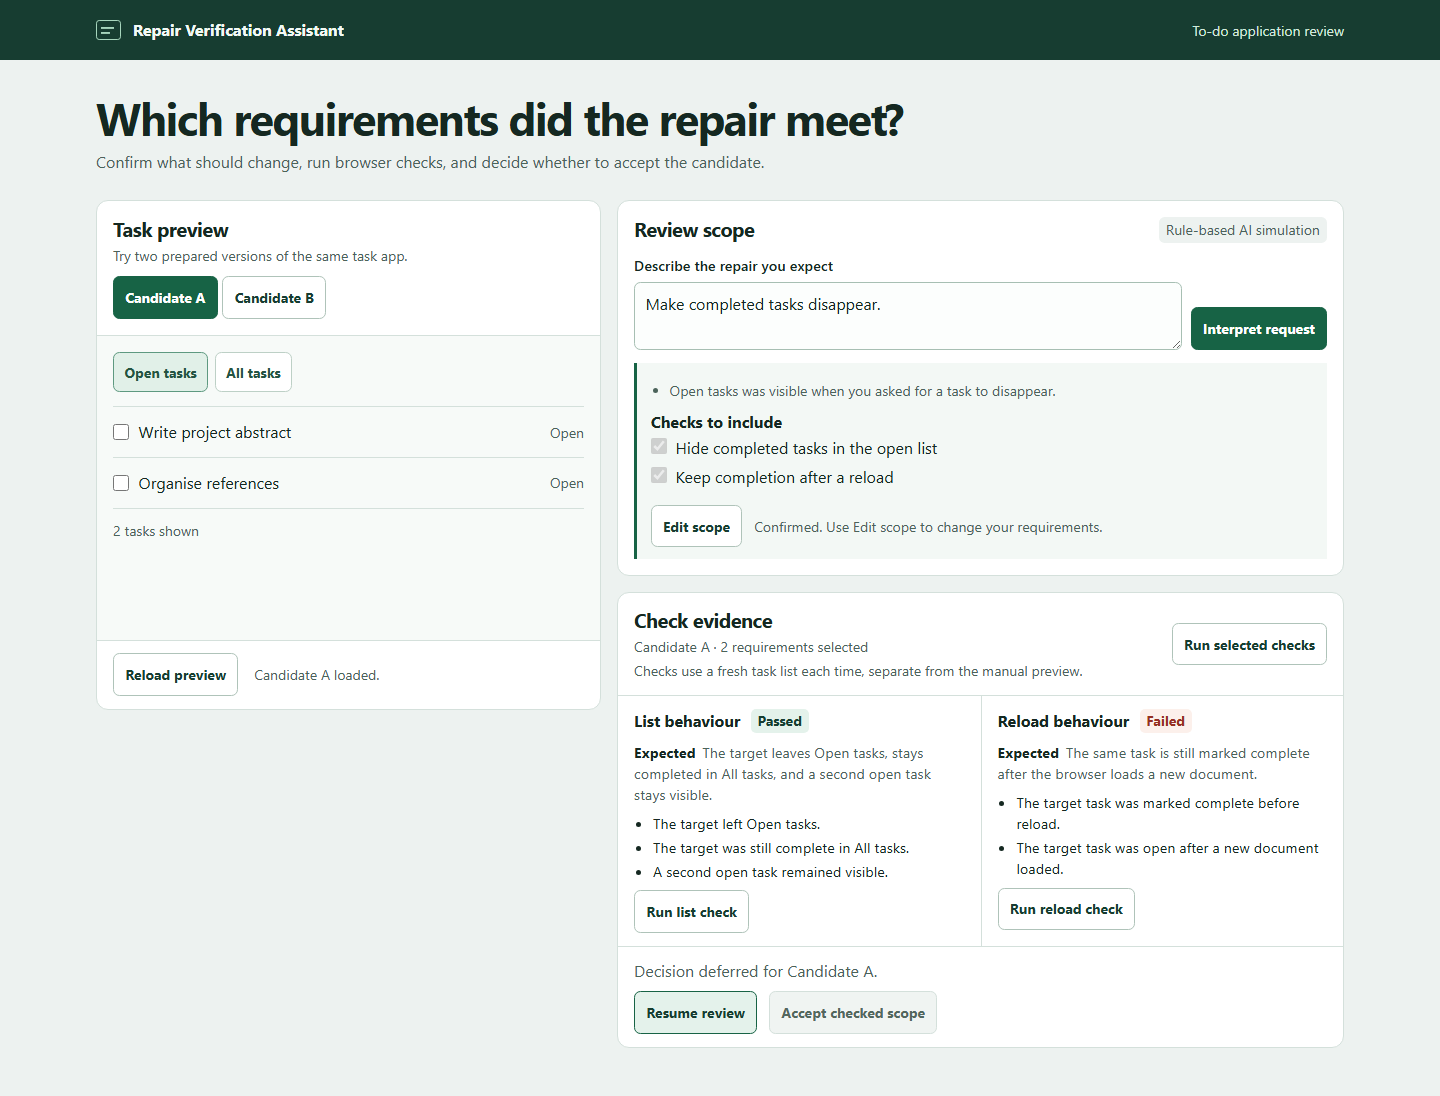
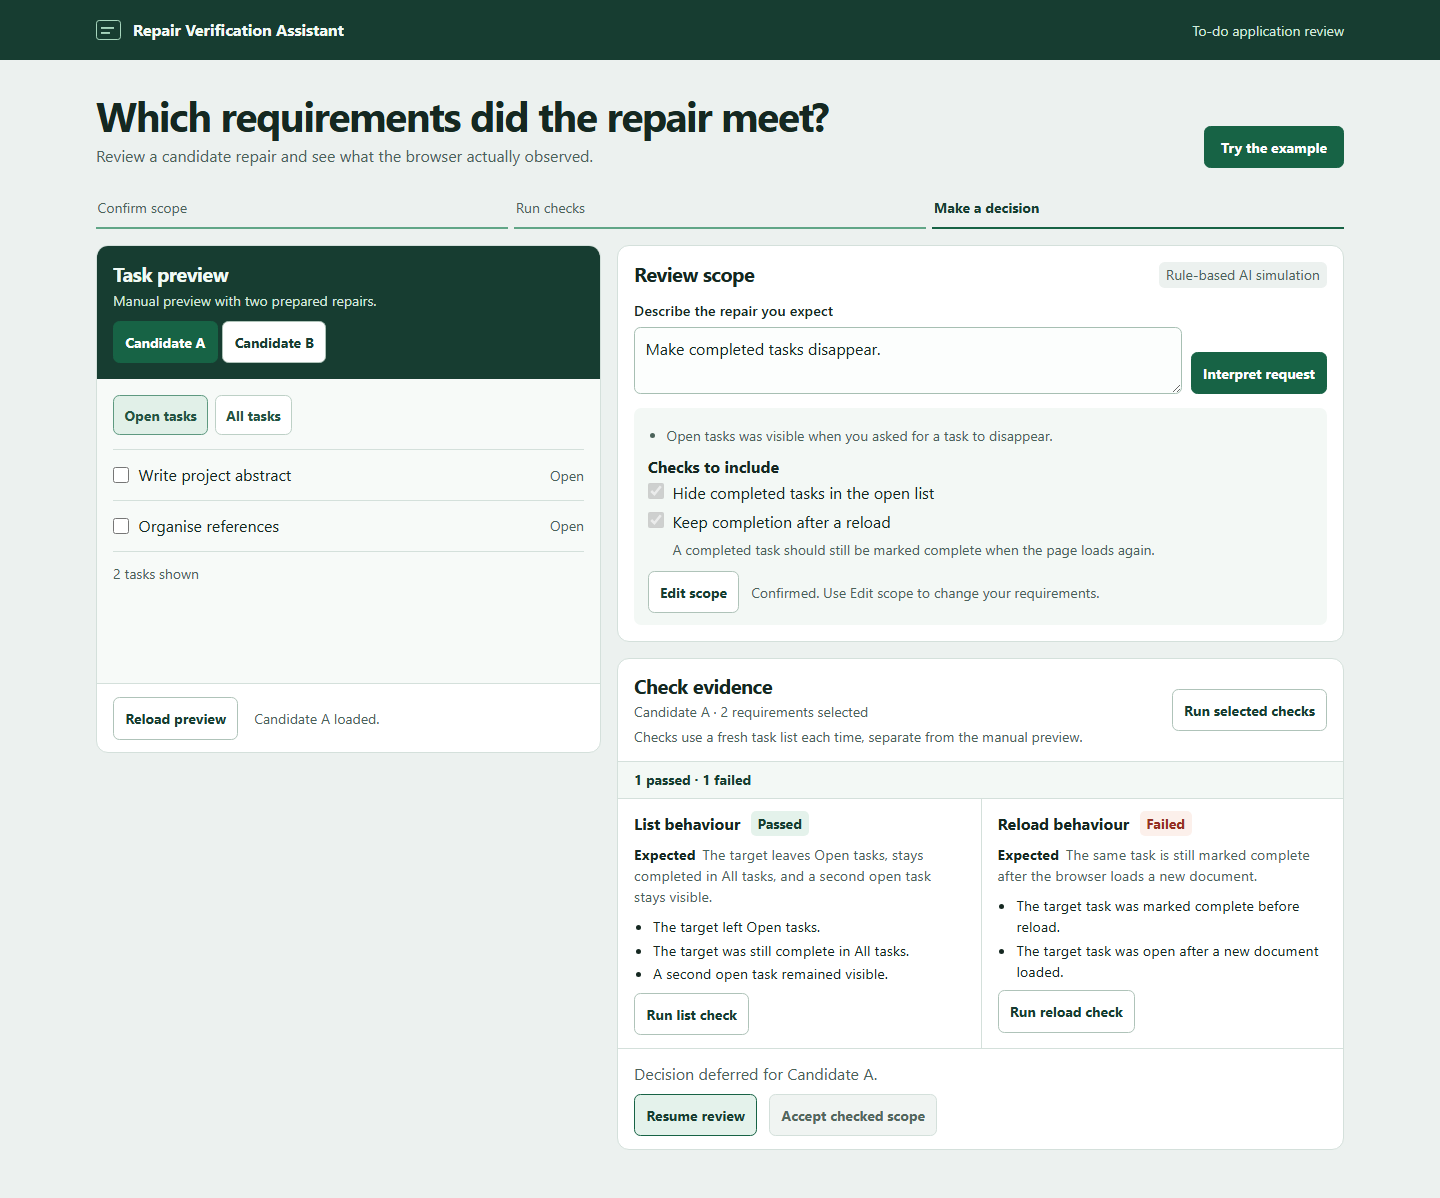
Stage 02: Guide reviewers and surface check results

diff --git a/web/workbench.css b/web/workbench.css
@@ -1,6 +1,6 @@
 :root {
   color-scheme: light;
-  --canvas: #edf2f0;
+  --canvas: #ecf1ef;
   --surface: #ffffff;
   --ink: #152821;
   --muted: #4b635a;
@@ -44,11 +44,36 @@ h1, h2, h3, p { margin: 0; }
 }
 .header-note { font-size: .875rem; color: #d2e8db; }
 .shell { padding-block: 2rem 3rem; }
-.intro { display: grid; gap: .4rem; margin-block-end: 1.65rem; }
-h1 { font-size: clamp(1.95rem, 3.15vw, 3rem); line-height: 1.13; font-weight: 660; letter-spacing: -.037em; }
+.intro {
+  display: flex;
+  flex-wrap: wrap;
+  align-items: flex-end;
+  justify-content: space-between;
+  gap: 1rem 2rem;
+  margin-block-end: 1.35rem;
+}
+.intro p { margin-block-start: .4rem; max-width: 62ch; }
+.intro button { padding-inline: 1rem; }
+h1 { font-size: 2.55rem; line-height: 1.13; font-weight: 660; letter-spacing: -.033em; text-wrap: balance; }
 h2 { font-size: 1.22rem; line-height: 1.3; letter-spacing: -.012em; }
 h3 { font-size: 1rem; }
 .intro p, .preview-header p, #evidence-context { color: var(--muted); }
+.review-progress {
+  display: grid;
+  grid-template-columns: repeat(3, minmax(0, 1fr));
+  gap: .4rem;
+  list-style: none;
+  margin: 0 0 1rem;
+  padding: 0;
+}
+.review-progress li {
+  padding: .44rem .1rem .55rem;
+  border-block-end: 2px solid #c1d0c9;
+  color: var(--muted);
+  font-size: .875rem;
+}
+.review-progress li[aria-current="step"] { color: var(--pine); border-color: var(--accent); font-weight: 700; }
+.review-progress .step-done { border-color: #61a687; }
 .workbench {
   display: grid;
   grid-template-columns: minmax(20rem, .82fr) minmax(0, 1.18fr);
@@ -69,7 +94,8 @@ h3 { font-size: 1rem; }
   flex-wrap: wrap;
   gap: .65rem 1rem;
 }
-.preview-header { padding: 1rem; border-block-end: 1px solid var(--line); }
+.preview-header { padding: 1rem; color: #f1faf5; background: var(--pine); }
+.preview-header p { color: #d4e7dc; }
 .preview-header p, #evidence-context, #preview-message, #scope-message, .check-note { font-size: .875rem; }
 .preview-header p, #evidence-context { margin-top: .15rem; }
 .candidate-control { display: flex; flex-wrap: wrap; gap: .3rem; }
@@ -131,7 +157,7 @@ textarea {
 .suggestion {
   margin-block-start: .85rem;
   padding: .75rem .85rem;
-  border-inline-start: 3px solid var(--accent);
+  border-radius: .45rem;
   background: #f3f8f5;
 }
 #question { font-weight: 640; }
@@ -140,12 +166,21 @@ textarea {
 fieldset { min-width: 0; border: 0; margin: .55rem 0 .7rem; padding: 0; }
 legend { padding: 0; font-weight: 650; margin-block-end: .15rem; }
 fieldset label { display: flex; gap: .55rem; align-items: baseline; width: fit-content; min-height: 1.8rem; }
+#reload-help { margin-inline-start: 1.55rem; color: var(--muted); font-size: .875rem; }
 input[type="checkbox"] { flex: 0 0 auto; margin: 0; width: 1rem; height: 1rem; accent-color: var(--accent); }
 .scope-actions, .decision-actions { display: flex; align-items: center; gap: .5rem .75rem; flex-wrap: wrap; }
 #scope-message { color: var(--muted); }
 
 .evidence-heading { padding: .9rem 1rem; }
 .check-note { color: var(--muted); margin-block-start: .2rem; }
+.check-summary {
+  padding: .46rem 1rem;
+  border-block-start: 1px solid var(--line);
+  background: #f3f8f5;
+  color: var(--pine);
+  font-size: .875rem;
+  font-weight: 650;
+}
 .check-list { display: grid; grid-template-columns: repeat(2, minmax(0, 1fr)); border-block: 1px solid var(--line); }
 [data-check] { min-width: 0; display: grid; align-content: start; align-items: start; gap: .55rem; padding: .8rem 1rem; }
 [data-check] + [data-check] { border-inline-start: 1px solid var(--line); }
@@ -169,6 +204,7 @@ input[type="checkbox"] { flex: 0 0 auto; margin: 0; width: 1rem; height: 1rem; a
 }
 @media (max-width: 33rem) {
   .shell { padding-block-start: 1.4rem; }
+  h1 { font-size: 1.9rem; }
   .header-note { display: none; }
   .check-list { grid-template-columns: minmax(0, 1fr); }
   [data-check] + [data-check] { border-inline-start: 0; border-block-start: 1px solid var(--line); }

diff --git a/web/index.html b/web/index.html
@@ -17,16 +17,24 @@
   </header>
   <main class="shell">
     <div class="intro">
-      <h1>Which requirements did the repair meet?</h1>
-      <p>Confirm what should change, run browser checks, and decide whether to accept the candidate.</p>
+      <div>
+        <h1>Which requirements did the repair meet?</h1>
+        <p>Review a candidate repair and see what the browser actually observed.</p>
+      </div>
+      <button type="button" id="try-example" class="button-accent">Try the example</button>
     </div>
+    <ol class="review-progress" aria-label="Review progress">
+      <li data-review-step="scope" aria-current="step">Confirm scope</li>
+      <li data-review-step="checks">Run checks</li>
+      <li data-review-step="decision">Make a decision</li>
+    </ol>
 
     <div class="workbench">
       <section class="preview-panel" aria-labelledby="preview-title">
         <div class="preview-header">
           <div>
             <h2 id="preview-title">Task preview</h2>
-            <p>Try two prepared versions of the same task app.</p>
+            <p>Manual preview with two prepared repairs.</p>
           </div>
           <div class="candidate-control" role="group" aria-label="Repair candidate">
             <button type="button" data-candidate="A" aria-pressed="true">Candidate A</button>
@@ -59,7 +67,8 @@
             <fieldset id="scope-options">
               <legend>Checks to include</legend>
               <label><input type="checkbox" value="filter"> Hide completed tasks in the open list</label>
-              <label><input type="checkbox" value="reload"> Keep completion after a reload</label>
+              <label><input type="checkbox" value="reload" aria-describedby="reload-help"> Keep completion after a reload</label>
+              <p id="reload-help">A completed task should still be marked complete when the page loads again.</p>
             </fieldset>
             <div class="scope-actions">
               <button type="button" id="confirm-scope" class="button-accent">Confirm scope</button>
@@ -78,6 +87,7 @@
             </div>
             <button type="button" id="run-selected" disabled>Run selected checks</button>
           </header>
+          <p id="check-summary" class="check-summary" role="status" hidden></p>
           <div class="check-list">
             <article data-check="filter" aria-labelledby="filter-heading">
               <div class="check-heading">

diff --git a/README.md b/README.md
@@ -1,6 +1,6 @@
 # Repair Verification Assistant
 
-Prose word count **457**. Headings and link text are included. Code blocks and setup commands are excluded.
+Prose word count **499**. Headings and link text are included. Code blocks and setup commands are excluded.
 
 A review workbench for a beginner with a candidate to-do app repair. Confirm the requirements, inspect browser evidence and decide what to accept.
 
@@ -18,7 +18,7 @@ Use Node.js 20 or later and a current browser. Run this command from the project
 node serve.mjs
 ```
 
-Select **Interpret request**, include **Keep completion after a reload**, and confirm the scope. On Candidate A, run the list check and then the reload check. Review the evidence and defer. Switch to Candidate B, run both checks and accept the checked scope. The manual preview supports the same actions.
+Select **Try the example** to load Candidate A and fill in both requirements. Confirm the scope and run both checks. Review the evidence and defer. Switch to Candidate B, run both checks and accept the checked scope. You can also write your own request or reproduce the behaviour in the manual preview.
 
 ## Technology and checks
 
@@ -41,6 +41,7 @@ The browser suite covers both candidates, manual reload, scope edits, context-se
 | Replace the walkthrough's simulated refresh with a real frame reload. | Read the target's checkbox state in a new document. The same check exposed Candidate A's defect and passed for Candidate B. |
 | Ask about persistence, then let users confirm or edit scope. | A short request can leave persistence implicit. Browser tests confirmed that changing the live view changes the suggestion and editing scope clears old evidence. |
 | Require passing evidence for acceptance and allow resuming a deferred review. | This is a provisional implementation choice. Checks cover failed, deferred, resumed and accepted decisions. |
+| Add a first-run example and an evidence summary. | The student asked for clearer guidance and an explanation of reload. The example fills in the two requirements. A browser test follows the progress indicator from confirmation to the split outcome. |
 
 ## Authorship and AI assistance
 

diff --git a/docs/walkthrough.md b/docs/walkthrough.md
@@ -2,9 +2,11 @@
 
 These captures come from the Playwright browser suite. Use the workbench and the same sample request to replay the interactions.
 
+[First-run view with the example entry point and review progress](evidence/guided-start.png)
+
 ## A partial repair is deferred
 
-1. On Candidate A, select **Interpret request**. Add the reload check and confirm the scope.
+1. Select **Try the example**. It loads Candidate A and suggests both checks. Confirm the scope.
 2. Run the list check. It passes. Run the reload check. The task is open in the new preview document and the check fails.
 3. Select **Defer decision**. The workbench shows the decision and proof of each outcome.
 
